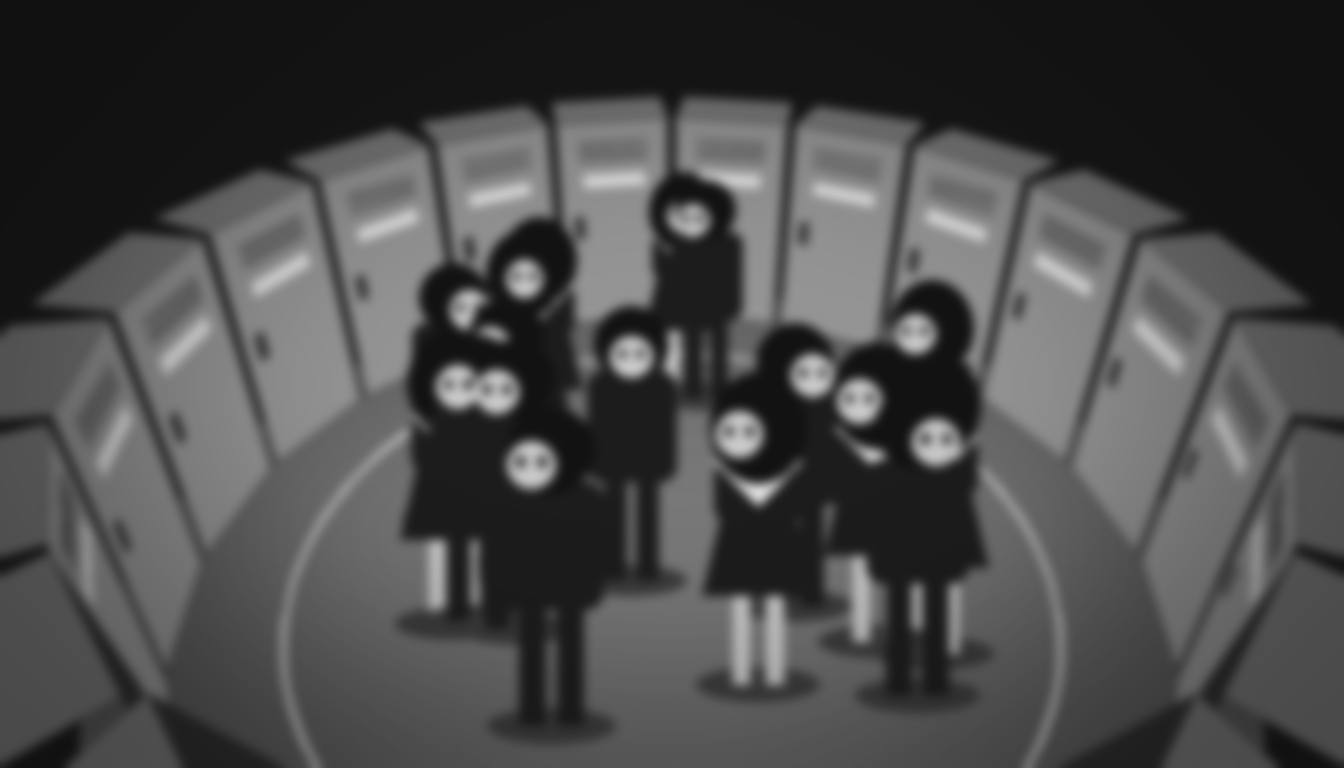
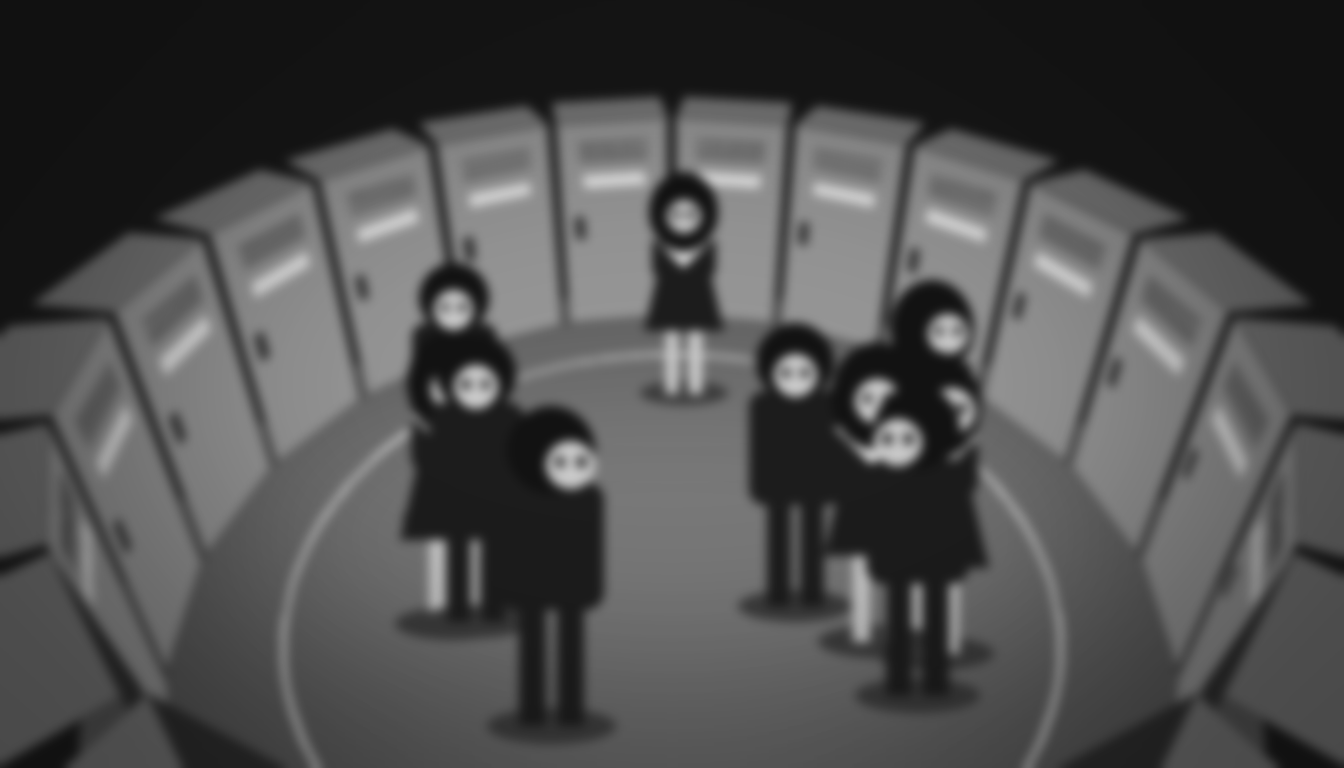
Ch5 p12-p14: shade the dead students' lockers, surrounded sketch, fewer students in the ring; note Ch4 retouches
Claude-Session: https://claude.ai/code/session_01PF511aGmcMqQ6PCbPbr6tc

Changed region(s): [[0.3125, 0.2188, 0.75, 0.9375], [0.4062, 0.8125, 0.4375, 0.8438]]

diff --git a/tools/manga/sketches.py b/tools/manga/sketches.py
@@ -542,6 +542,23 @@ def coin_notebook(w=832, h=1216, seed=4022):
     finger(d, w * 0.72, h * 0.76, w * 0.80, h * 0.68, w * 0.04)
     return vignette(img.filter(ImageFilter.GaussianBlur(5)), 30)
 
+def surrounded(w=832, h=1216, seed=5143):
+    """Ch5 p14_3: from above, one student alone in the middle, a loose ring of classmates around him."""
+    rnd = random.Random(seed)
+    img = concrete(w, h, 70, seed)
+    img = light_pool(img, w // 2, int(h * 0.52), int(w * 0.36), int(h * 0.26), 60)
+    d = ImageDraw.Draw(img)
+
+    def top(x, y, s, hair):
+        d.ellipse([x - 34 * s, y - 16 * s, x + 34 * s, y + 22 * s], fill=GAKURAN)    # shoulders
+        d.ellipse([x - 17 * s, y - 20 * s, x + 17 * s, y + 12 * s], fill=hair)       # head from above
+    for k in range(12):
+        a = 2 * math.pi * k / 12 + rnd.uniform(-0.12, 0.12)
+        r = rnd.uniform(0.82, 1.0)
+        top(w / 2 + w * 0.38 * r * math.cos(a), h * 0.52 + h * 0.30 * r * math.sin(a), w / 520, HAIR)
+    top(w / 2, h * 0.52, w / 430, (200, 200, 200))                                     # the light-haired one
+    return vignette(img.filter(ImageFilter.GaussianBlur(5)), 90)
+
 SKETCHES = {
     "chapter01": {"p15_1.png": chamber_wide, "p16_4.png": door_push, "p20_4.png": frozen_class,
                   "p21_2.png": lambda: frozen_class(1152, 896, seed=2102), "p23_1.png": key_case, "p23_2.png": key_closeup},
@@ -556,7 +573,8 @@ SKETCHES = {
                   "p19_1.png": standoff},
     "chapter05": {"p01_2.png": lambda: locker_ring(1024, 1024, cam=(0, 1.5, -2.6), pitch=4, figure=True),
                   "p09_1.png": lambda: locker_ring(1344, 768, cam=(0.3, 1.5, -2.6), pitch=4, figure=True),
-                  "p12_2.png": lambda: locker_ring(1344, 768, cam=(0, 4.5, -4.5), pitch=35, crowd=17)},
+                  "p12_2.png": lambda: locker_ring(1344, 768, cam=(0, 4.5, -4.5), pitch=35, crowd=10),
+                  "p14_3.png": surrounded},
 }
 
 

diff --git a/tools/manga/compose.py b/tools/manga/compose.py
@@ -14,7 +14,7 @@ import zipfile
 from pathlib import Path
 
 import img2pdf
-from PIL import Image, ImageDraw, ImageFilter, ImageFont
+from PIL import Image, ImageDraw, ImageEnhance, ImageFilter, ImageFont
 
 sys.path.insert(0, str(Path(__file__).resolve().parent))
 from layout import PAGE_H, PAGE_W, load_chapter, panel_id, panel_rects  # noqa: E402
@@ -745,6 +745,8 @@ def render_panel(panel, w, h, art_dir, pid):
             return img
         img = Image.open(path).convert("L").convert("RGB")
         img = fit(img, w, h, tuple(panel.get("focus", (0.5, 0.5))))
+        if panel.get("shade"):                            # darken the art (e.g. a dead student's locker)
+            img = ImageEnhance.Brightness(img).enhance(panel["shade"])
         return draw_streak(img, panel["streak"]) if panel.get("streak") else img
     if kind == "black":
         return Image.new("RGB", (w, h), "black")
